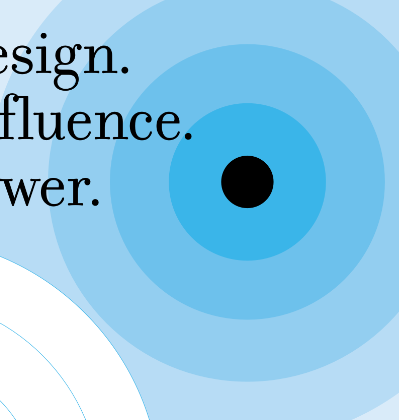
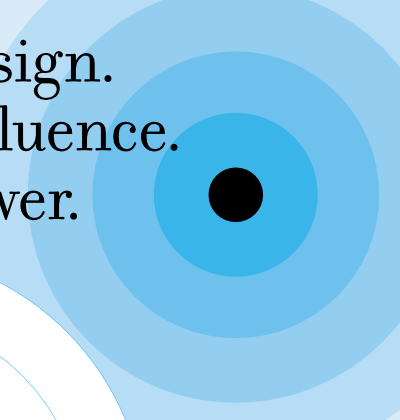
Home – Updated thumbnails

diff --git a/index.html b/index.html
@@ -56,7 +56,7 @@
     
     <div class="home_thumbnail">
         <h2><a href="work_artfriend.html">Art Friend</a></h2>
-        <a href="work_artfriend.html"><img class="art" src="z_support/imgs/hm_thumbnail_02_FPO.png" alt=""></a>
+        <a href="work_artfriend.html"><img class="art" src="z_support/imgs/hm_thumbnail_02.png" alt=""></a>
     </div>
     
     <div class="home_thumbnail">
